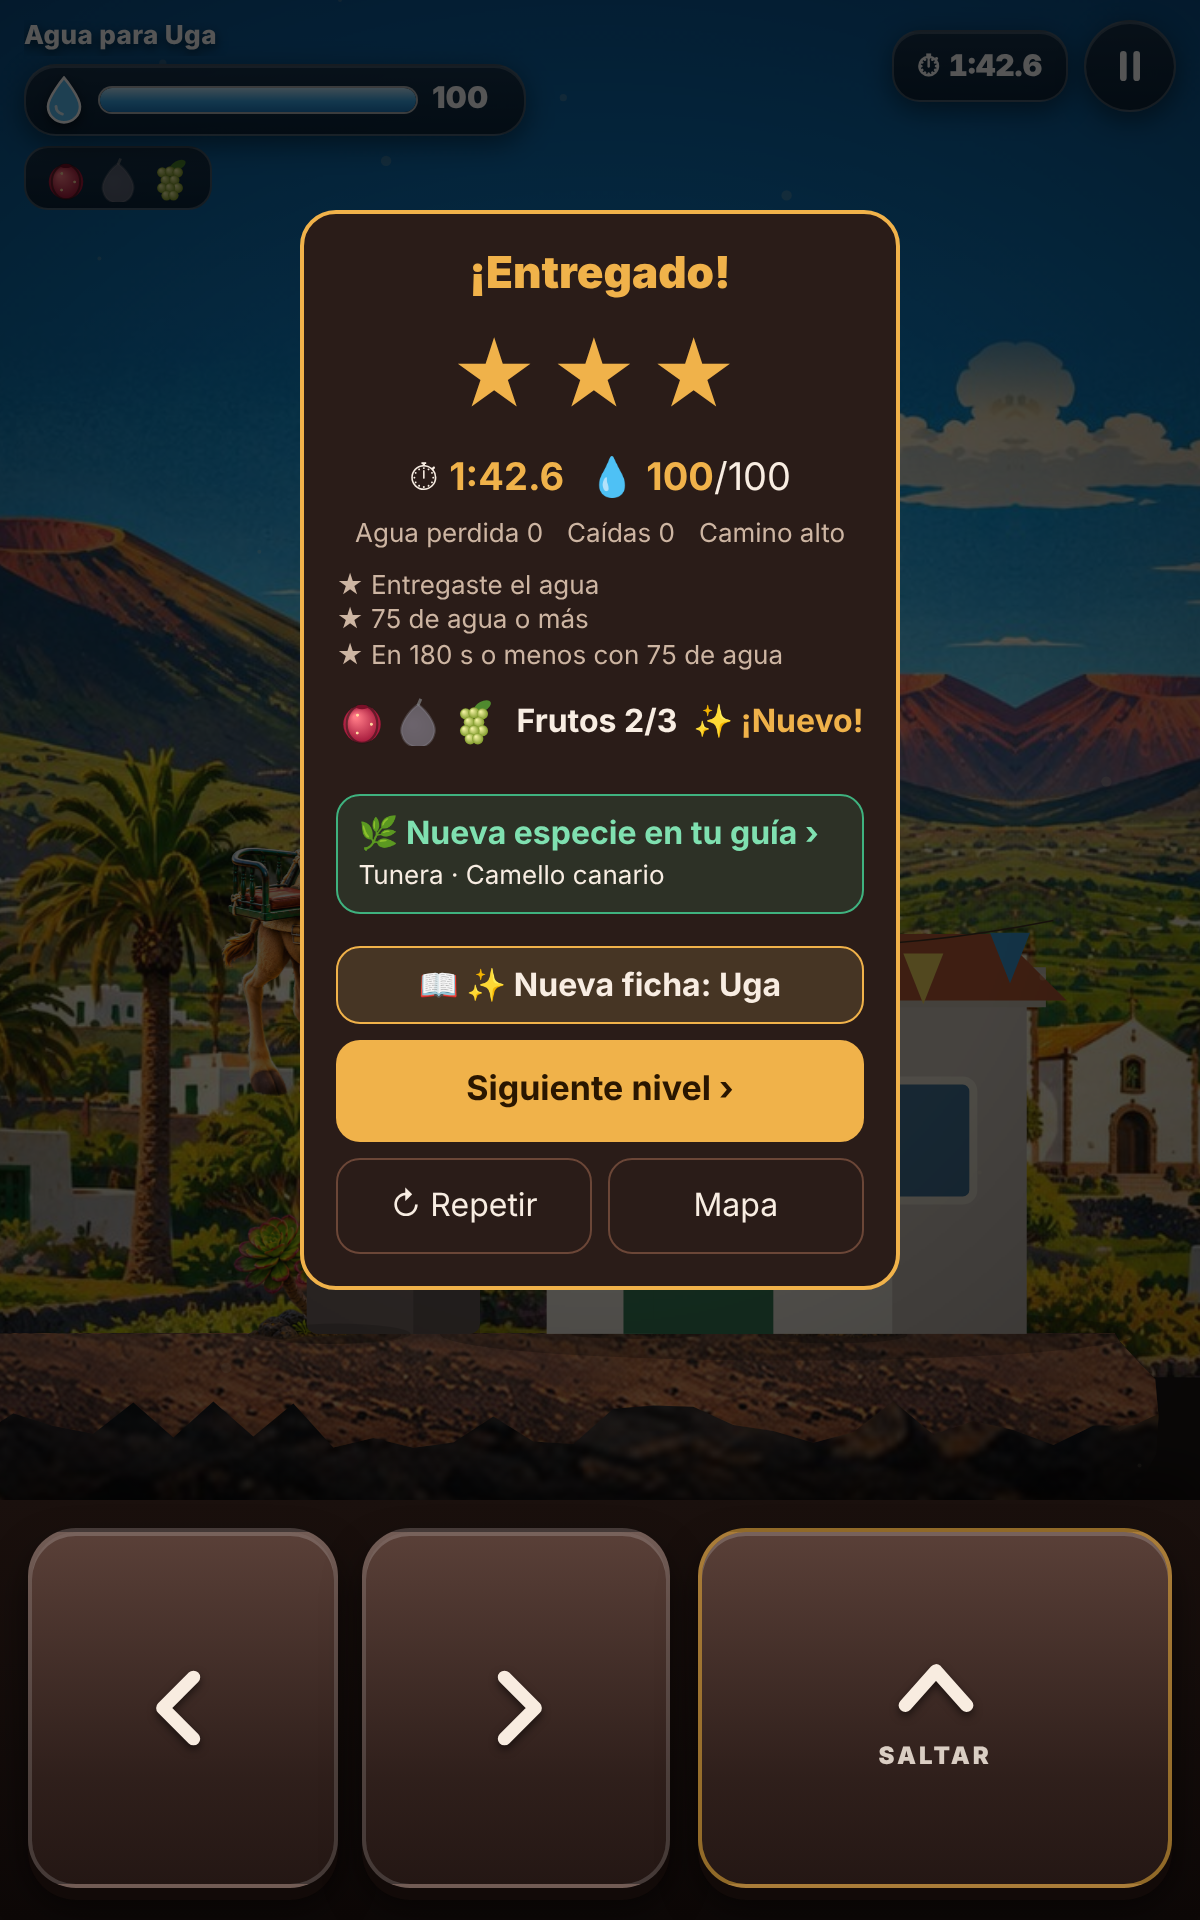
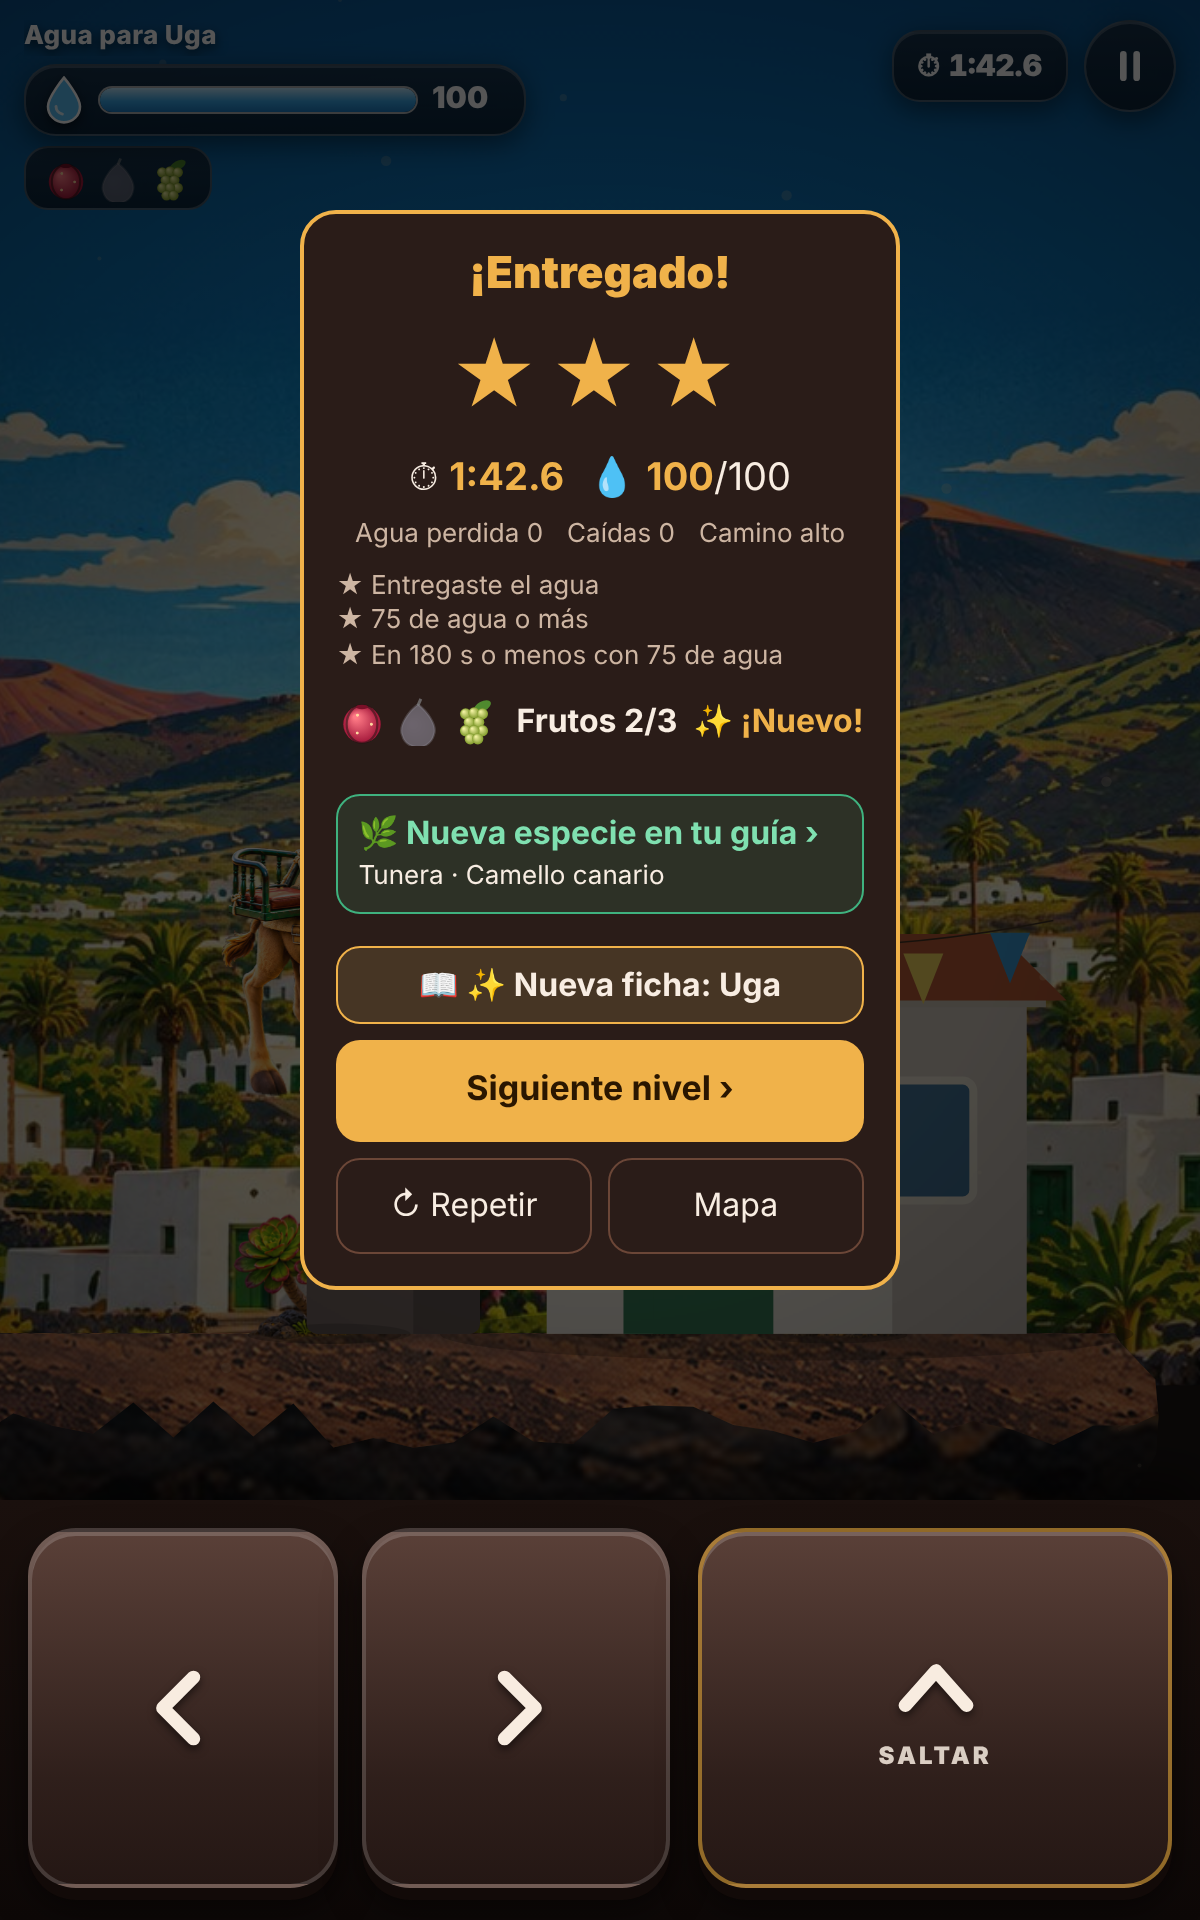
Un solo sol: el paisaje de fondo ya no se repite en espejo
Claude-Session: https://claude.ai/code/session_01H2Jf8v1MHtV6zTpVoU4WWj

Changed region(s): [[0.74, 0.1562, 1.0, 0.7188], [0.0, 0.2188, 0.2775, 0.7188], [0.4008, 0.6562, 0.4625, 0.6875]]

diff --git a/docs/app/dibujo.js b/docs/app/dibujo.js
@@ -493,12 +493,11 @@
     const f = PAI.fotos[PAI.porTema[tema] || 0];
     if (!f.img && typeof Image !== 'undefined') {
       f.img = new Image();
-      f.img.onload = () => {   // el dibujo entero (sin fundidos, que mezclaban dos sitios distintos) y su copia en espejo para empalmar sin cortes si hace falta repetirlo
+      f.img.onload = () => {   // el dibujo entero (sin fundidos, que mezclaban dos sitios distintos); nunca se repite
         const x0 = Math.round(f.img.naturalWidth * (f.ini || 0)), w = Math.round(f.img.naturalWidth * (f.fin || 1)) - x0, h = f.img.naturalHeight;   // se recorta lo que no conviene en los bordes (palmeras grandes…)
         const c = document.createElement('canvas'); c.width = w; c.height = h; c.getContext('2d').drawImage(f.img, x0, 0, w, h, 0, 0, w, h);
-        const m = document.createElement('canvas'); m.width = w; m.height = h; const gm = m.getContext('2d'); gm.translate(w, 0); gm.scale(-1, 1); gm.drawImage(c, 0, 0);
-        f.tile = c; f.tileM = m; f.ok = true;
-        if (f.mar) try { f.agua = capaAgua(c, f.mar); const am = document.createElement('canvas'); am.width = w; am.height = h; const ga = am.getContext('2d'); ga.translate(w, 0); ga.scale(-1, 1); ga.drawImage(f.agua, 0, 0); am.y0 = f.agua.y0; am.y1 = f.agua.y1; f.aguaM = am; } catch (e) { f.agua = null; }
+        f.tile = c; f.ok = true;
+        if (f.mar) try { f.agua = capaAgua(c, f.mar); } catch (e) { f.agua = null; }
       };
       f.img.src = f.src;
     }
@@ -546,18 +545,18 @@
   function dibujaPaisaje(ctx, W, H, u, cam, TM, t, F, largo) {
     // tamaño fijo (antes dependía de la altura del suelo y hacía un zoom brusco); en vertical sigue al suelo suavemente y solo en parte (paralaje)
     const ref = H - H * (W < H ? 0.27 : 0.3), suelo = ref + u * 0.5;   // fijo en vertical: seguir al suelo daba saltos
-    const alto = Math.max(ref * 0.78, u * 6.5), dib = alto * 1.25, k = dib / PAI.h, ancho = F.tile.width * k, top = suelo - alto;
+    // el dibujo nunca se repite (repetirlo, aunque fuera en espejo, duplicaba el sol, los molinos…): si la pantalla es muy ancha se agranda hasta cubrirla
+    let alto = Math.max(ref * 0.78, u * 6.5), dib = alto * 1.25, k = dib / PAI.h;
+    if (F.tile.width * k < W * 1.15) { k = W * 1.15 / F.tile.width; dib = k * PAI.h; alto = dib / 1.25; }
+    const ancho = F.tile.width * k, top = suelo - alto, sobra = Math.max(0, ancho - W);
     let g = ctx.createLinearGradient(0, 0, 0, Math.max(1, top + 2)); g.addColorStop(0, F.cielo[0]); g.addColorStop(1, F.cielo[1]); ctx.fillStyle = g; ctx.fillRect(0, 0, W, Math.max(0, top) + 2);
-    // paralaje: en un nivel el dibujo avanza justo lo necesario para recorrerlo entero una vez (sin repetirse si cabe);
-    // si no cabe (pantalla muy ancha) o en la portada, se repite alternando con su espejo para que el empalme sea continuo
-    const fac = largo ? Math.max(0.03, Math.min(0.18, (ancho - W) / Math.max(1, largo * u))) : 0.18;
-    const off = cam.x * u * fac, i0 = Math.floor(off / ancho);
-    for (let i = i0; ancho * i - off < W; i++) {
-      const x = ancho * i - off;
-      const esp = ((i % 2) + 2) % 2;
-      ctx.drawImage(esp ? F.tileM : F.tile, x, top, ancho + 1, dib);
-      if (F.agua && !(typeof window !== 'undefined' && window.SIN_OLAS)) dibujaOlas(ctx, esp ? F.aguaM : F.agua, x, top, k, t, W);
-    }
+    // paralaje: en un nivel el dibujo avanza justo lo necesario para recorrerlo una vez de punta a punta;
+    // en la portada va y vuelve despacio
+    let off;
+    if (largo) off = Math.min(sobra, Math.max(0, cam.x * u * sobra / Math.max(1, largo * u)));
+    else { const pp = (cam.x * u * 0.18) % Math.max(1, 2 * sobra); off = pp < sobra ? pp : 2 * sobra - pp; }
+    ctx.drawImage(F.tile, -off, top, ancho + 1, dib);
+    if (F.agua && !(typeof window !== 'undefined' && window.SIN_OLAS)) dibujaOlas(ctx, F.agua, -off, top, k, t, W);
     if (top > 0) { const fz = alto * 0.14, gf = ctx.createLinearGradient(0, top - 1, 0, top + fz); gf.addColorStop(0, F.cielo[1]); gf.addColorStop(1, F.cielo[1] + '00'); ctx.fillStyle = gf; ctx.fillRect(0, top - 1, W, fz + 1); }   // empalme suave entre el cielo y el dibujo
     ctx.fillStyle = '#16100f'; ctx.fillRect(0, top + dib - 1, W, H);
     if (false) { ctx.fillStyle = TM.tinte.replace(/[\d.]+\)$/, m => (parseFloat(m) * 2.5).toFixed(2) + ')'); ctx.fillRect(0, 0, W, suelo); }

diff --git a/www/dibujo.js b/www/dibujo.js
@@ -493,12 +493,11 @@
     const f = PAI.fotos[PAI.porTema[tema] || 0];
     if (!f.img && typeof Image !== 'undefined') {
       f.img = new Image();
-      f.img.onload = () => {   // el dibujo entero (sin fundidos, que mezclaban dos sitios distintos) y su copia en espejo para empalmar sin cortes si hace falta repetirlo
+      f.img.onload = () => {   // el dibujo entero (sin fundidos, que mezclaban dos sitios distintos); nunca se repite
         const x0 = Math.round(f.img.naturalWidth * (f.ini || 0)), w = Math.round(f.img.naturalWidth * (f.fin || 1)) - x0, h = f.img.naturalHeight;   // se recorta lo que no conviene en los bordes (palmeras grandes…)
         const c = document.createElement('canvas'); c.width = w; c.height = h; c.getContext('2d').drawImage(f.img, x0, 0, w, h, 0, 0, w, h);
-        const m = document.createElement('canvas'); m.width = w; m.height = h; const gm = m.getContext('2d'); gm.translate(w, 0); gm.scale(-1, 1); gm.drawImage(c, 0, 0);
-        f.tile = c; f.tileM = m; f.ok = true;
-        if (f.mar) try { f.agua = capaAgua(c, f.mar); const am = document.createElement('canvas'); am.width = w; am.height = h; const ga = am.getContext('2d'); ga.translate(w, 0); ga.scale(-1, 1); ga.drawImage(f.agua, 0, 0); am.y0 = f.agua.y0; am.y1 = f.agua.y1; f.aguaM = am; } catch (e) { f.agua = null; }
+        f.tile = c; f.ok = true;
+        if (f.mar) try { f.agua = capaAgua(c, f.mar); } catch (e) { f.agua = null; }
       };
       f.img.src = f.src;
     }
@@ -546,18 +545,18 @@
   function dibujaPaisaje(ctx, W, H, u, cam, TM, t, F, largo) {
     // tamaño fijo (antes dependía de la altura del suelo y hacía un zoom brusco); en vertical sigue al suelo suavemente y solo en parte (paralaje)
     const ref = H - H * (W < H ? 0.27 : 0.3), suelo = ref + u * 0.5;   // fijo en vertical: seguir al suelo daba saltos
-    const alto = Math.max(ref * 0.78, u * 6.5), dib = alto * 1.25, k = dib / PAI.h, ancho = F.tile.width * k, top = suelo - alto;
+    // el dibujo nunca se repite (repetirlo, aunque fuera en espejo, duplicaba el sol, los molinos…): si la pantalla es muy ancha se agranda hasta cubrirla
+    let alto = Math.max(ref * 0.78, u * 6.5), dib = alto * 1.25, k = dib / PAI.h;
+    if (F.tile.width * k < W * 1.15) { k = W * 1.15 / F.tile.width; dib = k * PAI.h; alto = dib / 1.25; }
+    const ancho = F.tile.width * k, top = suelo - alto, sobra = Math.max(0, ancho - W);
     let g = ctx.createLinearGradient(0, 0, 0, Math.max(1, top + 2)); g.addColorStop(0, F.cielo[0]); g.addColorStop(1, F.cielo[1]); ctx.fillStyle = g; ctx.fillRect(0, 0, W, Math.max(0, top) + 2);
-    // paralaje: en un nivel el dibujo avanza justo lo necesario para recorrerlo entero una vez (sin repetirse si cabe);
-    // si no cabe (pantalla muy ancha) o en la portada, se repite alternando con su espejo para que el empalme sea continuo
-    const fac = largo ? Math.max(0.03, Math.min(0.18, (ancho - W) / Math.max(1, largo * u))) : 0.18;
-    const off = cam.x * u * fac, i0 = Math.floor(off / ancho);
-    for (let i = i0; ancho * i - off < W; i++) {
-      const x = ancho * i - off;
-      const esp = ((i % 2) + 2) % 2;
-      ctx.drawImage(esp ? F.tileM : F.tile, x, top, ancho + 1, dib);
-      if (F.agua && !(typeof window !== 'undefined' && window.SIN_OLAS)) dibujaOlas(ctx, esp ? F.aguaM : F.agua, x, top, k, t, W);
-    }
+    // paralaje: en un nivel el dibujo avanza justo lo necesario para recorrerlo una vez de punta a punta;
+    // en la portada va y vuelve despacio
+    let off;
+    if (largo) off = Math.min(sobra, Math.max(0, cam.x * u * sobra / Math.max(1, largo * u)));
+    else { const pp = (cam.x * u * 0.18) % Math.max(1, 2 * sobra); off = pp < sobra ? pp : 2 * sobra - pp; }
+    ctx.drawImage(F.tile, -off, top, ancho + 1, dib);
+    if (F.agua && !(typeof window !== 'undefined' && window.SIN_OLAS)) dibujaOlas(ctx, F.agua, -off, top, k, t, W);
     if (top > 0) { const fz = alto * 0.14, gf = ctx.createLinearGradient(0, top - 1, 0, top + fz); gf.addColorStop(0, F.cielo[1]); gf.addColorStop(1, F.cielo[1] + '00'); ctx.fillStyle = gf; ctx.fillRect(0, top - 1, W, fz + 1); }   // empalme suave entre el cielo y el dibujo
     ctx.fillStyle = '#16100f'; ctx.fillRect(0, top + dib - 1, W, H);
     if (false) { ctx.fillStyle = TM.tinte.replace(/[\d.]+\)$/, m => (parseFloat(m) * 2.5).toFixed(2) + ')'); ctx.fillRect(0, 0, W, suelo); }

diff --git a/docs/app/sw.js b/docs/app/sw.js
@@ -1,7 +1,7 @@
 // Service worker: deja la versión web disponible sin conexión.
 // En la app Android no hace falta (los archivos ya van dentro del APK) y podría servir
 // una versión antigua tras actualizar, así que allí se da de baja solo.
-const CACHE = 'martin-v2.4.5';
+const CACHE = 'martin-v2.4.6';
 const ASSETS = ['./', 'index.html', 'martin.js', 'niveles.js', 'secretos.js', 'juego.js', 'dibujo.js', 'lugares.js', 'mapa-lz.js', 'naturaleza.js', 'paisaje-cueva.jpg', 'camello.png', 'portada.jpg', 'paisaje.jpg', 'flora.png', 'suelo-tierra.jpg', 'suelo-lava.jpg', 'paisaje-uga.jpg', 'paisaje-timanfaya.jpg', 'paisaje-geria.jpg', 'paisaje-costa.jpg', 'paisaje-ocaso.jpg', 'paisaje-golfo.jpg', 'paisaje-janubio.jpg', 'paisaje-famara.jpg', 'paisaje-haria.jpg', 'paisaje-mirador.jpg', 'manifest.webmanifest', 'icons/icon-192.png', 'icons/icon-512.png', 'icons/icon-maskable-512.png', 'icons/apple-touch-icon.png', 'i18n-en.js', 'i18n-fr.js', 'i18n-de.js', 'i18n-it.js', 'idioma.js', 'masjuegos.js', 'audio-suave.js', 'turno.js', 'contador.js', 'invitacion.js', 'publicas.js', 'juegos/ajedrez.png', 'juegos/chinchon.png', 'juegos/pumba.png', 'juegos/damas.png', 'juegos/parchis.png', 'juegos/poker.png', 'juegos/uno.png', 'juegos/martin.png'];
 const NATIVE = self.location.hostname === 'localhost' && self.location.protocol === 'https:';
 

diff --git a/www/sw.js b/www/sw.js
@@ -1,7 +1,7 @@
 // Service worker: deja la versión web disponible sin conexión.
 // En la app Android no hace falta (los archivos ya van dentro del APK) y podría servir
 // una versión antigua tras actualizar, así que allí se da de baja solo.
-const CACHE = 'martin-v2.4.5';
+const CACHE = 'martin-v2.4.6';
 const ASSETS = ['./', 'index.html', 'martin.js', 'niveles.js', 'secretos.js', 'juego.js', 'dibujo.js', 'lugares.js', 'mapa-lz.js', 'naturaleza.js', 'paisaje-cueva.jpg', 'camello.png', 'portada.jpg', 'paisaje.jpg', 'flora.png', 'suelo-tierra.jpg', 'suelo-lava.jpg', 'paisaje-uga.jpg', 'paisaje-timanfaya.jpg', 'paisaje-geria.jpg', 'paisaje-costa.jpg', 'paisaje-ocaso.jpg', 'paisaje-golfo.jpg', 'paisaje-janubio.jpg', 'paisaje-famara.jpg', 'paisaje-haria.jpg', 'paisaje-mirador.jpg', 'manifest.webmanifest', 'icons/icon-192.png', 'icons/icon-512.png', 'icons/icon-maskable-512.png', 'icons/apple-touch-icon.png', 'i18n-en.js', 'i18n-fr.js', 'i18n-de.js', 'i18n-it.js', 'idioma.js', 'masjuegos.js', 'audio-suave.js', 'turno.js', 'contador.js', 'invitacion.js', 'publicas.js', 'juegos/ajedrez.png', 'juegos/chinchon.png', 'juegos/pumba.png', 'juegos/damas.png', 'juegos/parchis.png', 'juegos/poker.png', 'juegos/uno.png', 'juegos/martin.png'];
 const NATIVE = self.location.hostname === 'localhost' && self.location.protocol === 'https:';
 

diff --git a/docs/app/index.html b/docs/app/index.html
@@ -446,7 +446,7 @@ function openThemes() {
   AvisoTurno.enlazar();
 }
 
-const APP_VERSION = '2.4.5';
+const APP_VERSION = '2.4.6';
 const REPO = 'csuarezsm/Martin';
 const MAX_ARCHIVE = 500;
 const uid = () => Math.random().toString(36).slice(2, 10);

diff --git a/www/index.html b/www/index.html
@@ -446,7 +446,7 @@ function openThemes() {
   AvisoTurno.enlazar();
 }
 
-const APP_VERSION = '2.4.5';
+const APP_VERSION = '2.4.6';
 const REPO = 'csuarezsm/Martin';
 const MAX_ARCHIVE = 500;
 const uid = () => Math.random().toString(36).slice(2, 10);

diff --git a/README.md b/README.md
@@ -2,7 +2,7 @@
 
 Un camello canario joven de Uga lleva el agua por los caminos que dejó la tormenta: lava, rocas, huecos y bajadas. **11 niveles de plataformas en dos mundos** con tres estrellas cada uno, a veces con dos caminos (uno rápido y arriesgado, otro lento y seguro), y un **reto diario** igual para todos con ranking.
 Para Android e iPhone. Gratis, sin anuncios y sin cuentas. App Capacitor + web (`www/`). Todo se guarda en el móvil; solo el reto diario usa el servidor de juegos (nombre y pulsaciones, para comprobar el tiempo).
-Paquete: `com.itcanarias.martin` · versión 2.4.5
+Paquete: `com.itcanarias.martin` · versión 2.4.6
 
 Novedades de la 2.3: **Mundo 2 · La costa y el norte**, con 5 niveles nuevos en El Golfo, las Salinas de Janubio (¡la sal resbala!), Famara, Haría (por las copas de las palmeras) y el Mirador del Río, y sus fichas en el Cuaderno de viaje.
 
